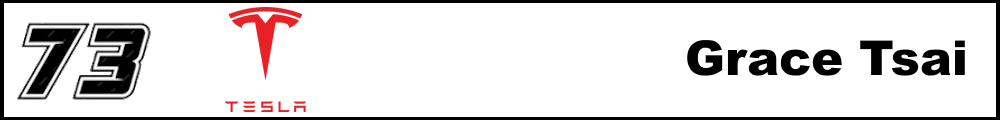
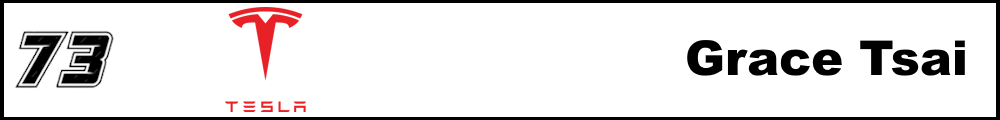
Added driver pages yay

Changed region(s): [[0.0, 0.175, 0.155, 0.85]]

diff --git a/driverPages/40.html b/driverPages/40.html
@@ -1,7 +1,7 @@
 <!DOCTYPE html>
 <html>
 <head>
-<title>Ella Deschamps - 2025 NASCAR Cup Series</title>
+<title>DC Trimble - 2025 NASCAR Cup Series</title>
 <meta name="viewport" content="width=device-width, initial-scale=1" />
 <link rel="icon" type="image/x-icon" href="/RockyMountainRegionalSeries/favicon.ico">
 <link rel="stylesheet" href="/RockyMountainRegionalSeries/site.css" >
@@ -19,9 +19,10 @@
 
 <main>
 
-<h1>Ella Deschamps</h1>
+<h1>DC Trimble</h1>
 
-<img src="/RockyMountainRegionalSeries/driverPages/3.png" alt="null">
+
+<img src="/RockyMountainRegionalSeries/driverPages/99, 40.png" alt="null">
 
 <table>
   <tr>
@@ -35,12 +36,12 @@
   </tr>
 
       <tr>
-    <td>Kawasaki Race Team</td>
-    <td>3</td>
-    <td>Kawasaki</td>
-    <td>19</td>
-    <td>20th</td>
-    <td>18</td>
+    <td>Dynamic Collective Racing</td>
+    <td>40</td>
+    <td>Ford</td>
+    <td>15</td>
+    <td>17th</td>
+    <td>22</td>
     <td>0</td>
     </tr>
   </table>

diff --git a/driverPages/67.html b/driverPages/67.html
@@ -1,7 +1,7 @@
 <!DOCTYPE html>
 <html>
 <head>
-<title>Ella Deschamps - 2025 NASCAR Cup Series</title>
+<title>Madeline Turner - 2025 NASCAR Cup Series</title>
 <meta name="viewport" content="width=device-width, initial-scale=1" />
 <link rel="icon" type="image/x-icon" href="/RockyMountainRegionalSeries/favicon.ico">
 <link rel="stylesheet" href="/RockyMountainRegionalSeries/site.css" >
@@ -19,9 +19,7 @@
 
 <main>
 
-<h1>Ella Deschamps</h1>
-
-<img src="/RockyMountainRegionalSeries/driverPages/3.png" alt="null">
+<h1>Madeline Turner</h1>
 
 <table>
   <tr>
@@ -35,12 +33,12 @@
   </tr>
 
       <tr>
-    <td>Kawasaki Race Team</td>
-    <td>3</td>
-    <td>Kawasaki</td>
-    <td>19</td>
-    <td>20th</td>
-    <td>18</td>
+    <td>Tesla Motorsports</td>
+    <td>67</td>
+    <td>Tesla</td>
+    <td>38</td>
+    <td>38th</td>
+    <td>1</td>
     <td>0</td>
     </tr>
   </table>

diff --git a/driverPages/73.html b/driverPages/73.html
@@ -1,7 +1,7 @@
 <!DOCTYPE html>
 <html>
 <head>
-<title>Ella Deschamps - 2025 NASCAR Cup Series</title>
+<title>Grace Tsai - 2025 NASCAR Cup Series</title>
 <meta name="viewport" content="width=device-width, initial-scale=1" />
 <link rel="icon" type="image/x-icon" href="/RockyMountainRegionalSeries/favicon.ico">
 <link rel="stylesheet" href="/RockyMountainRegionalSeries/site.css" >
@@ -19,9 +19,7 @@
 
 <main>
 
-<h1>Ella Deschamps</h1>
-
-<img src="/RockyMountainRegionalSeries/driverPages/3.png" alt="null">
+<h1>Grace Tsai</h1>
 
 <table>
   <tr>
@@ -35,12 +33,12 @@
   </tr>
 
       <tr>
-    <td>Kawasaki Race Team</td>
-    <td>3</td>
-    <td>Kawasaki</td>
-    <td>19</td>
-    <td>20th</td>
-    <td>18</td>
+    <td>Tesla Motorsports</td>
+    <td>73</td>
+    <td>Tesla</td>
+    <td>6</td>
+    <td>10th</td>
+    <td>31</td>
     <td>0</td>
     </tr>
   </table>

diff --git a/driverPages/17.html b/driverPages/17.html
@@ -1,7 +1,7 @@
 <!DOCTYPE html>
 <html>
 <head>
-<title>Ella Deschamps - 2025 NASCAR Cup Series</title>
+<title>Ty Nichols - 2025 NASCAR Cup Series</title>
 <meta name="viewport" content="width=device-width, initial-scale=1" />
 <link rel="icon" type="image/x-icon" href="/RockyMountainRegionalSeries/favicon.ico">
 <link rel="stylesheet" href="/RockyMountainRegionalSeries/site.css" >
@@ -19,9 +19,7 @@
 
 <main>
 
-<h1>Ella Deschamps</h1>
-
-<img src="/RockyMountainRegionalSeries/driverPages/3.png" alt="null">
+<h1>Ty Nichols</h1>
 
 <table>
   <tr>
@@ -35,12 +33,12 @@
   </tr>
 
       <tr>
-    <td>Kawasaki Race Team</td>
-    <td>3</td>
-    <td>Kawasaki</td>
-    <td>19</td>
-    <td>20th</td>
-    <td>18</td>
+    <td>Kaulig Racing</td>
+    <td>17</td>
+    <td>Chevrolet</td>
+    <td>41</td>
+    <td>41</td>
+    <td>1</td>
     <td>0</td>
     </tr>
   </table>

diff --git a/driverPages/27.html b/driverPages/27.html
@@ -1,7 +1,7 @@
 <!DOCTYPE html>
 <html>
 <head>
-<title>Ella Deschamps - 2025 NASCAR Cup Series</title>
+<title>Kaleb Dymock - 2025 NASCAR Cup Series</title>
 <meta name="viewport" content="width=device-width, initial-scale=1" />
 <link rel="icon" type="image/x-icon" href="/RockyMountainRegionalSeries/favicon.ico">
 <link rel="stylesheet" href="/RockyMountainRegionalSeries/site.css" >
@@ -19,9 +19,7 @@
 
 <main>
 
-<h1>Ella Deschamps</h1>
-
-<img src="/RockyMountainRegionalSeries/driverPages/3.png" alt="null">
+<h1>Kaleb Dymock</h1>
 
 <table>
   <tr>
@@ -35,12 +33,12 @@
   </tr>
 
       <tr>
-    <td>Kawasaki Race Team</td>
-    <td>3</td>
-    <td>Kawasaki</td>
-    <td>19</td>
-    <td>20th</td>
-    <td>18</td>
+    <td>Team Penske</td>
+    <td>27</td>
+    <td>Ford</td>
+    <td>9</td>
+    <td>12th</td>
+    <td>28</td>
     <td>0</td>
     </tr>
   </table>

diff --git a/teams.html b/teams.html
@@ -37,6 +37,9 @@
 <a href="/RockyMountainRegionalSeries/driverPages/6">
   <img src="/RockyMountainRegionalSeries/teamBanners/6.png">
 </a>
+<a href="/RockyMountainRegionalSeries/driverPages/17">
+  <img src="/RockyMountainRegionalSeries/teamBanners/17.png">
+</a>
 <a href="/RockyMountainRegionalSeries/driverPages/27">
   <img src="/RockyMountainRegionalSeries/teamBanners/27.png">
 </a>
@@ -50,6 +53,9 @@
 <h2>Part-Time Teams</h2>
 <a href="/RockyMountainRegionalSeries/driverPages/2">
   <img src="/RockyMountainRegionalSeries/teamBanners/2.png">
+</a>
+<a href="/RockyMountainRegionalSeries/driverPages/40">
+  <img src="/RockyMountainRegionalSeries/teamBanners/40.png">
 </a>
   </main>
 

diff --git a/driverPages/4.html b/driverPages/4.html
@@ -34,14 +34,14 @@
     <th class="heading">Bonus</th>
   </tr>
 
-  <tr>
-    <th>Dynamic Collective Racing</th>
-    <th>4</th>
-    <th>Ford</th>
-    <th>11</th>
-    <th>11th</th>
-    <th>30</th>
-    <th>0</th>
+      <tr>
+    <td>Dynamic Collective Racing</td>
+    <td>4</td>
+    <td>Ford</td>
+    <td>11</td>
+    <td>1th</td>
+    <td>30</td>
+    <td>0</td>
     </tr>
   </table>
   </main>

diff --git a/driverPages/5.html b/driverPages/5.html
@@ -34,14 +34,14 @@
     <th class="heading">Bonus</th>
   </tr>
 
-  <tr>
-    <th>Astronomy Motorsports</th>
-    <th>5</th>
-    <th>Lucid</th>
-    <th>36</th>
-    <th>36th</th>
-    <th>1</th>
-    <th>0</th>
+      <tr>
+    <td>Astronomy Motorsports</td>
+    <td>5</td>
+    <td>Lucid</td>
+    <td>36</td>
+    <td>36th</td>
+    <td>1</td>
+    <td>0</td>
     </tr>
   </table>
   </main>

diff --git a/driverPages/6.html b/driverPages/6.html
@@ -34,14 +34,14 @@
     <th class="heading">Bonus</th>
   </tr>
 
-  <tr>
-    <th>Team Penske</th>
-    <th>6</th>
-    <th>Ford</th>
-    <th>2</th>
-    <th>3rd</th>
-    <th>44</th>
-    <th>0</th>
+      <tr>
+    <td>Team Penske</td>
+    <td>6</td>
+    <td>Ford</td>
+    <td>2</td>
+    <td>3rd</td>
+    <td>44</td>
+    <td>0</td>
     </tr>
   </table>
   </main>
